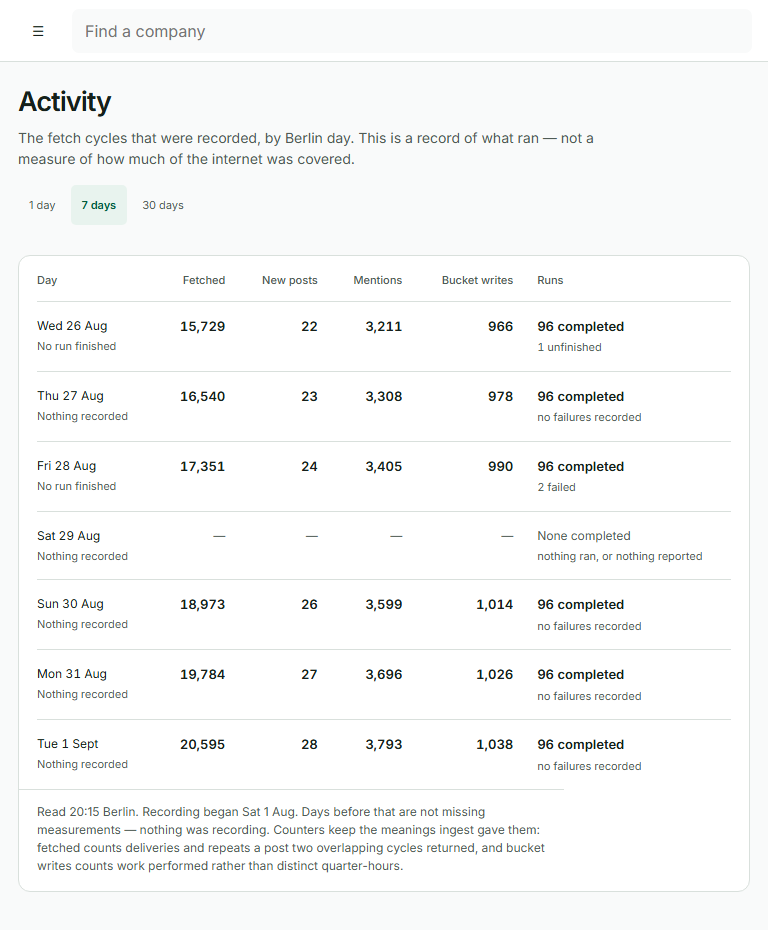
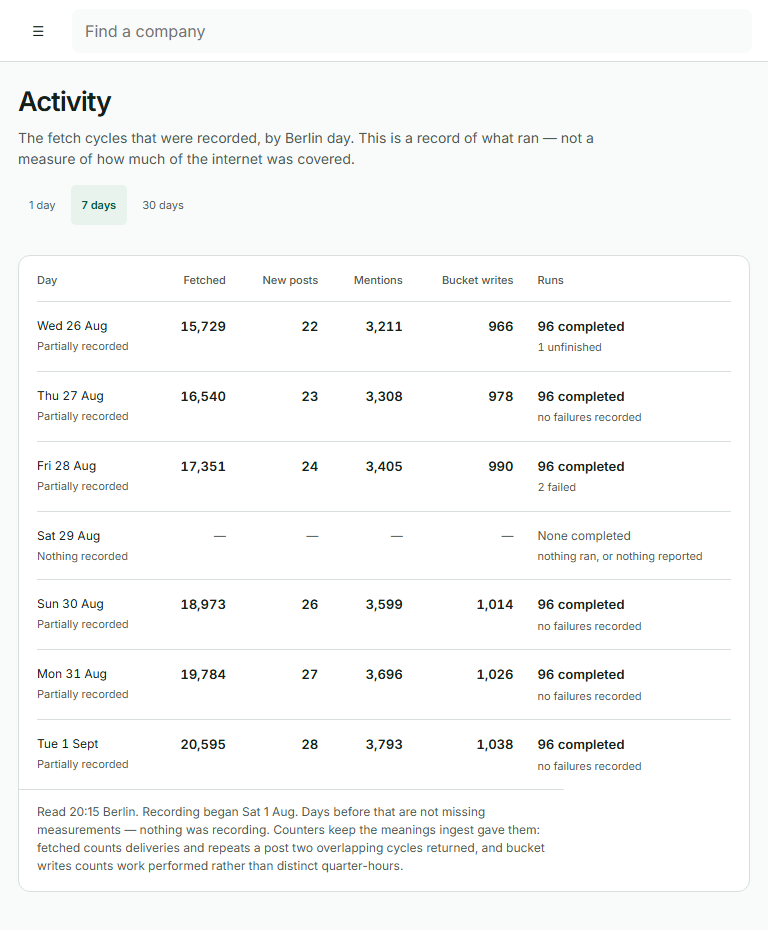
docs(radar): the VC1-close ledger, and a fixture that showed a state the API cannot produce
The Activity fixture set `completeness` to "complete". The endpoint only ever
emits "partial" or "unknown" -- it never claims a day is complete, because
successful runs prove cycles ran and not that anything was covered. The
invented value fell through the page's mapping and the capture read "Nothing
recorded" directly above 16,540 fetched posts. A screenshot of a state the API
cannot produce is not evidence of anything, so the fixture is corrected and the
captures retaken.

The ledger records VC1-close and sorting. Its breakpoint table is measured on
POPULATED fixtures rather than empty ones -- the Eighth return's own objection
to the capture that seemed to justify moving those breakpoints -- and its
browser-check count comes from counting rather than estimating: 110, not the 58
first written.

It also states four things this delivery does not claim: sorting was verified
in Chromium only, no screen reader was run, the duplicate cell labels persist
on Activity and Watching, and TE1's schema still comes from local development
rather than a production restore.

diff --git a/personal_apps/scratchpad/vc1_preview.py b/personal_apps/scratchpad/vc1_preview.py
@@ -205,7 +205,14 @@ def fixture_activity(days):
             'counted_runs': 0 if quiet else 96,
             'incomplete_runs': 1 if index == 0 else 0,
             'error_runs': 2 if index == 2 else 0,
-            'completeness': 'unknown' if quiet else 'complete',
+            # 'partial' and 'unknown' are the ONLY values the endpoint emits:
+            # it never claims a day is complete, because successful runs prove
+            # cycles ran and not that anything was covered. An earlier version
+            # of this fixture invented 'complete', fell through the page's
+            # mapping, and captured a screenshot reading "Nothing recorded"
+            # above 16,540 fetched posts. A state the API cannot produce is
+            # not evidence of anything.
+            'completeness': 'unknown' if quiet else 'partial',
         })
     return out
 

diff --git a/radar-design/VISUAL-CORRECTION-LEDGER.md b/radar-design/VISUAL-CORRECTION-LEDGER.md
@@ -13,9 +13,11 @@ Implementation and verification by Claude, 2026-09-09, in
 | **TE1** | **Complete** | New disposable `personal_apps_radar_te1`, 29 FKs, both migrations, integrity tests pass. See below. |
 | **VC1a data/helpers** | **Complete** | `c90cf92`. Additive `activity_sources`; pure `tonePresentation`/`sourcePresentation`. Mutation-checked. |
 | **VC1b Chatter correction** | **Complete** | `db9f153`. Composition, tone bar + percentage, source summary, column proportions, responsive rules. |
-| **VC1c visual verification** | **Complete** | Matched before/after screenshots, 48 browser checks, measurements in `reports/vc1/`. |
+| **VC1c visual verification** | **Complete** | Matched before/after screenshots, 50 browser checks, measurements in `reports/vc1/`. |
 | **Two defects found by looking** | **Fixed** | `b1cf313` the class collision, `43526e8` the tone bar's invisible rare share. Both below. |
 | **Independent review** | **Performed, findings resolved** | Read-only reviewer against this contract, the source and the actual screenshots. Twelve findings, none blocking; every one addressed below. |
+| **VC1-close (Eighth return A, B, D)** | **Complete** | `20dfc03`. Approximate-bar sentence, table breakpoints scoped back to Chatter, responsive cell labels. |
+| **Sortable Chatter** | **Complete** | `20dfc03`. Owner-approved 2026-09-10; the binding contract is in VISUAL-CORRECTION-PLAN.md. |
 | Owner acceptance | **Open — this is the ask** | Run the preview and look at it. Command below. |
 | Deployment | Not authorized | Separate decision, after visual acceptance |
 
@@ -33,6 +35,8 @@ because a document cannot name the commit that carries it.
 | `43526e8` | the tone bar drew a rare share as nothing |
 | `fc578b8` | the loading state, and one test flake reported rather than hidden |
 | `79235db` | the independent review's twelve findings |
+| `d66b52e` | the documents name their commits |
+| `20dfc03` | **VC1-close**: sortable Chatter, and the Eighth return's A, B and D |
 
 ---
 
@@ -297,7 +301,7 @@ reads `last 24 hours` (what is on screen). That is the payload's own echo
 doing its job: the heading describes the rows the reader is looking at, not
 the request that has not landed.
 
-### Browser checks — 48, all passing, no console or page errors
+### Browser checks — 50, all passing, no console or page errors
 
 Disclosures open and close, Escape closes and returns focus, opening one does
 not navigate, the source detail names concrete `r/…` feeds, every row control
@@ -404,6 +408,155 @@ and documented in `Chatter.tsx` — below 860 px the header row is gone and the
 label is the only thing naming the figure — but it does double the announced
 text per row, and a future pass could make it responsive rather than constant.
 
+## VC1-close — the Eighth return's A, B and D, `20dfc03`
+
+Codex accepted TE1 and the principal correction and set three narrow items
+before a deployment proposal. This is a small closure, **not** a redispatch of
+VC1a-c: nothing in the earlier work was reopened.
+
+**A. The bar says it approximates.** The tone detail now ends with the ruling's
+own sentence: *"Tiny nonzero shares are drawn at a minimum width so they remain
+visible; use the percentage and counts for the exact balance."* It is in the
+accessible detail, not the row. The rare-share geometry and percentage tests
+are retained unchanged, and the geometry is not described anywhere as strictly
+proportional.
+
+**B. The 860 table breakpoint is Chatter's alone.** Watching and Activity keep
+the 700px table breakpoint they always had. Carrying them to 860 was an
+uncommanded change to pages this work was asked only to check, and the capture
+that seemed to justify it was of an **empty** table. Navigation still collapses
+at 1080 and the skip-link correction stands.
+
+Chatter's stacking rules are written `.rh-table.rh-chatter`, so they outrank
+the generic `.rh-table` block by specificity below 700 rather than by which
+media query the file happens to list last.
+
+Verified on **populated** fixtures — a five-row watch list and seven days of
+labelled fictional activity, because the local database records no ingest runs
+and its real activity payload is seven days of nulls:
+
+| width | Chatter | Watching | Activity |
+| --- | --- | --- | --- |
+| 861 | table | table | table |
+| 860 | **stacked** | table | table |
+| 768 | stacked | table | table |
+| 701 | stacked | table | table |
+| 700 | stacked | **stacked** | **stacked** |
+
+No page scrolls sideways at any of those widths.
+
+**D. The duplicate cell labels are gone from the desk layout.** They were
+`rh-visually-hidden`, which hides from the eye and keeps in the accessibility
+tree — so a screen reader heard the column name from the header and again from
+the cell, seven times a row, every row. They are now `display: none` on the
+desk layout, which removes them from both trees, and `display: block` in the
+stacked layout where the header row no longer exists and they are the only
+thing naming each figure. One CSS switch; no JavaScript watching the viewport;
+the explicit ARIA roles that survive `display: block` on table elements are
+unchanged.
+
+Activity and Watching still carry the same duplicate on their desk layouts.
+That is the same defect and it is **not fixed here** — those pages were out of
+scope — and it is recorded below as a named follow-up.
+
+---
+
+## Sortable Chatter, `20dfc03`
+
+Owner-approved on 2026-09-10 after using the preview. The binding contract is
+the "VC1-close addition" section of VISUAL-CORRECTION-PLAN.md.
+
+**It is a view, and the page says so.** Sorting issues no request, touches no
+server sort parameter and cannot add a company the response did not carry. A
+browser check asserts the board-request count does not move when a header is
+clicked. The note above the table reads *"Sorts these 7 candidates, not the
+whole market — Radar's ranking and eligibility are unchanged"*, because
+"sorted by tone" otherwise reads as "the most bullish companies in the market"
+and it is not that.
+
+**Every key reads what its cell displays.** Sorting a formatted percentage
+would put 10% before 2%; sorting the bar's geometry would rank rows by the 2px
+minimum that exists so a rare share stays visible. So:
+
+| column | sorts on | unknown when |
+| --- | --- | --- |
+| Company | the ticker, locale-aware and numeric-aware, never the clamped name | never |
+| Attention | `row.ratio`, the server's guard, never recomputed | no baseline |
+| Voices | `authors` | not a finite number |
+| Sources | platforms from validated `activity_sources`; never legacy `sources` | the field is missing (an empty list is a measured zero and sorts) |
+| Tone | the unrounded bullish share of the DIRECTIONAL sample | no directional sample, or malformed counts |
+| Price | the displayed price, **grouped by currency** | unavailable quote, no price, or no currency |
+| Today | the raw `price_move` fraction; zero is a value | no move, or no usable quote |
+
+**Unknown is not zero and not smallest.** Rows with nothing measured stay last
+in **both** directions — reversing a sort must not promote the companies nobody
+has a reading for. Equal keys keep the response order, with an explicit index
+tiebreak rather than borrowing the engine's sort stability.
+
+**Price groups rather than pretends.** €4.44 is not "less than" $18.20 in any
+sense a reader would accept and this board has no conversion to make it one, so
+a German fallback row sorts among the euro rows and the page names the
+currencies when more than one is present. Today's move does **not** group: a
+percentage is comparable across currencies where a price is not.
+
+**Where the state lives.** In the hub, not in Chatter — Chatter unmounts when
+the reader opens a company, so Back would otherwise throw the ordering away. In
+memory only: it is a view over whichever response is current, so it survives a
+refresh and a server-filter change, and "Radar order" resets to the **newest**
+response rather than the one that was sorted. Not in the URL either; the query
+string is the SELECTION, which decides what the server builds, and this decides
+nothing the server does.
+
+**Both layouts can sort.** Desk: the column headers are real buttons, with
+`aria-sort` on the header cell and the visible column name as the button's own
+accessible name. Price and Today are two controls, because one combined
+control cannot say whether the reader asked for the dearest company or the one
+that rose most — and the shared header takes an explicit name saying which of
+them `aria-sort` is describing. Below 860 the header row is `display: none`,
+which takes it out of the accessibility tree too, so the stacked layout gets a
+labelled **Sort by** selector and a direction button with the same seven keys.
+Same CSS breakpoint as everything else; no JavaScript watching the viewport.
+
+**One defect the screenshots caught.** Raising specificity for item B made
+`.rh-table.rh-chatter td { display: block }` outrank the chevron column's
+`display: none`, so on mobile a stray chevron reappeared as a block with no
+grid area and sat alone at the bottom of every row. Every test still passed.
+Fixed, and pinned by a check that every visible stacked cell has a named grid
+area.
+
+### Tests and checks at `20dfc03`
+
+| command | result |
+| --- | --- |
+| `npx vitest run -c vite.radar.config.ts` | **519 passed**, 40 files (was 476; +23 comparator, +16 UI, +4 hub) |
+| `npx vitest run` (root config) | **403 passed**, 32 files |
+| `npm run build` (includes `tsc --noEmit`) | exit 0 |
+
+Browser checks: **110 passing**, no console or page errors — **50** from the
+earlier VC1c pass, re-run unchanged against this build, plus **60** covering
+sorting, the responsive labels and the breakpoints on populated tables at five
+widths across three pages.
+
+Backend code was not touched by this commit.
+
+### New evidence
+
+| file | what |
+| --- | --- |
+| `close-sorted-1440.png` | sorted by Tone, desk layout, with the arrow and the scope note |
+| `close-sorted-390.png` | sorted by Voices from the stacked layout's selector |
+| `close-chatter-768.png`, `close-chatter-700.png` | Chatter stacked at both |
+| `close-watching-768.png`, `close-watching-700.png` | populated Watching: table, then stacked |
+| `close-activity-768.png`, `close-activity-700.png` | populated Activity: table, then stacked |
+
+The watch list and the activity days in those captures are **labelled
+fictional fixtures**. The local database has no watch marks and records no
+ingest runs, so its real payloads are an empty list and seven days of nulls —
+and an empty table cannot verify a table layout, which is the Eighth return's
+own point.
+
+---
+
 ## Limitations, stated
 
 1. **No tone reading on local data.** The development copy has no
@@ -421,6 +574,31 @@ text per row, and a future pass could make it responsive rather than constant.
    change. They are not claimed to be prototype-identical, and no page-specific
    fidelity work was done on them.
 5. **TE1's schema comes from local development, not from a production restore.**
+   Codex accepted it as closing the constraint-free TEST ENVIRONMENT defect
+   while noting it is not a production clone: MySQL 8 and `utf8mb4_0900_ai_ci`
+   differ from the target's MariaDB and collation, and matching local foreign
+   keys does not establish every production constraint.
+6. **Sorting was verified in Chromium only**, through the built bundle. The
+   `Intl.Collator` ordering of tickers and the `display: none` breakpoint
+   switch are standard, but no second engine was checked.
+7. **The duplicate cell labels persist on Activity and Watching.** Chatter's
+   are fixed; those two were out of scope and are a named follow-up.
+8. **No screen reader was run.** The accessibility claims here rest on the DOM,
+   computed styles and `aria-*` attributes as measured in the browser — not on
+   an actual assistive-technology pass.
+
+## Named follow-ups
+
+- **The duplicate cell labels on Activity and Watching.** Same defect Chatter's
+  item D fixed, same one-line shape. Out of scope here by ruling.
+- **Watching's tone and source presentation.** Eighth return E: reuse these
+  helpers where Watching shows those metrics, with a populated mockup first.
+  Not a Watching redesign, and not in this delivery.
+- **The zero-feed question in legacy `sources` / `venues` / breadth filtering.**
+  Changing it can change which companies appear, so it is a ranking decision
+  and not a display one.
+- **Whether 860 is right for Watching and Activity too.** This delivery
+  restored their 700, and the question is open rather than answered.
 
 ## Not done, deliberately
 
@@ -428,3 +606,15 @@ No merge, no push, no deploy. Capture stays off. `/radar/` is unchanged and no
 root-route promotion. OT1 — the retired encoder-trial watchdog — was not
 touched. Historical analysis remains the next new feature after this
 correction.
+
+## Codex review update — 2026-09-10
+
+See CODEX-DECISIONS.md Eighth return. TE1 accepted with local-schema limits;
+principal VC1 accepted for owner preview. VC1-close remains before deployment:
+approximate-bar explanation, scope table breakpoint changes to Chatter, responsive
+accessible labels. Do not redispatch completed work. Owner may review now;
+no deployment authorized. Current reviewed HEAD d66b52e; Codex documentation
+edits are intentional and uncommitted. Fresh focused Vitest: 56 passed/2 files.
+
+2026-09-10 owner addition: sortable Chatter is OPEN within VC1-close. Read the appended binding sorting contract in VISUAL-CORRECTION-PLAN.md. Preserve completed tasks; return sorting with the same closure review/preview. No deployment authorized.
+
